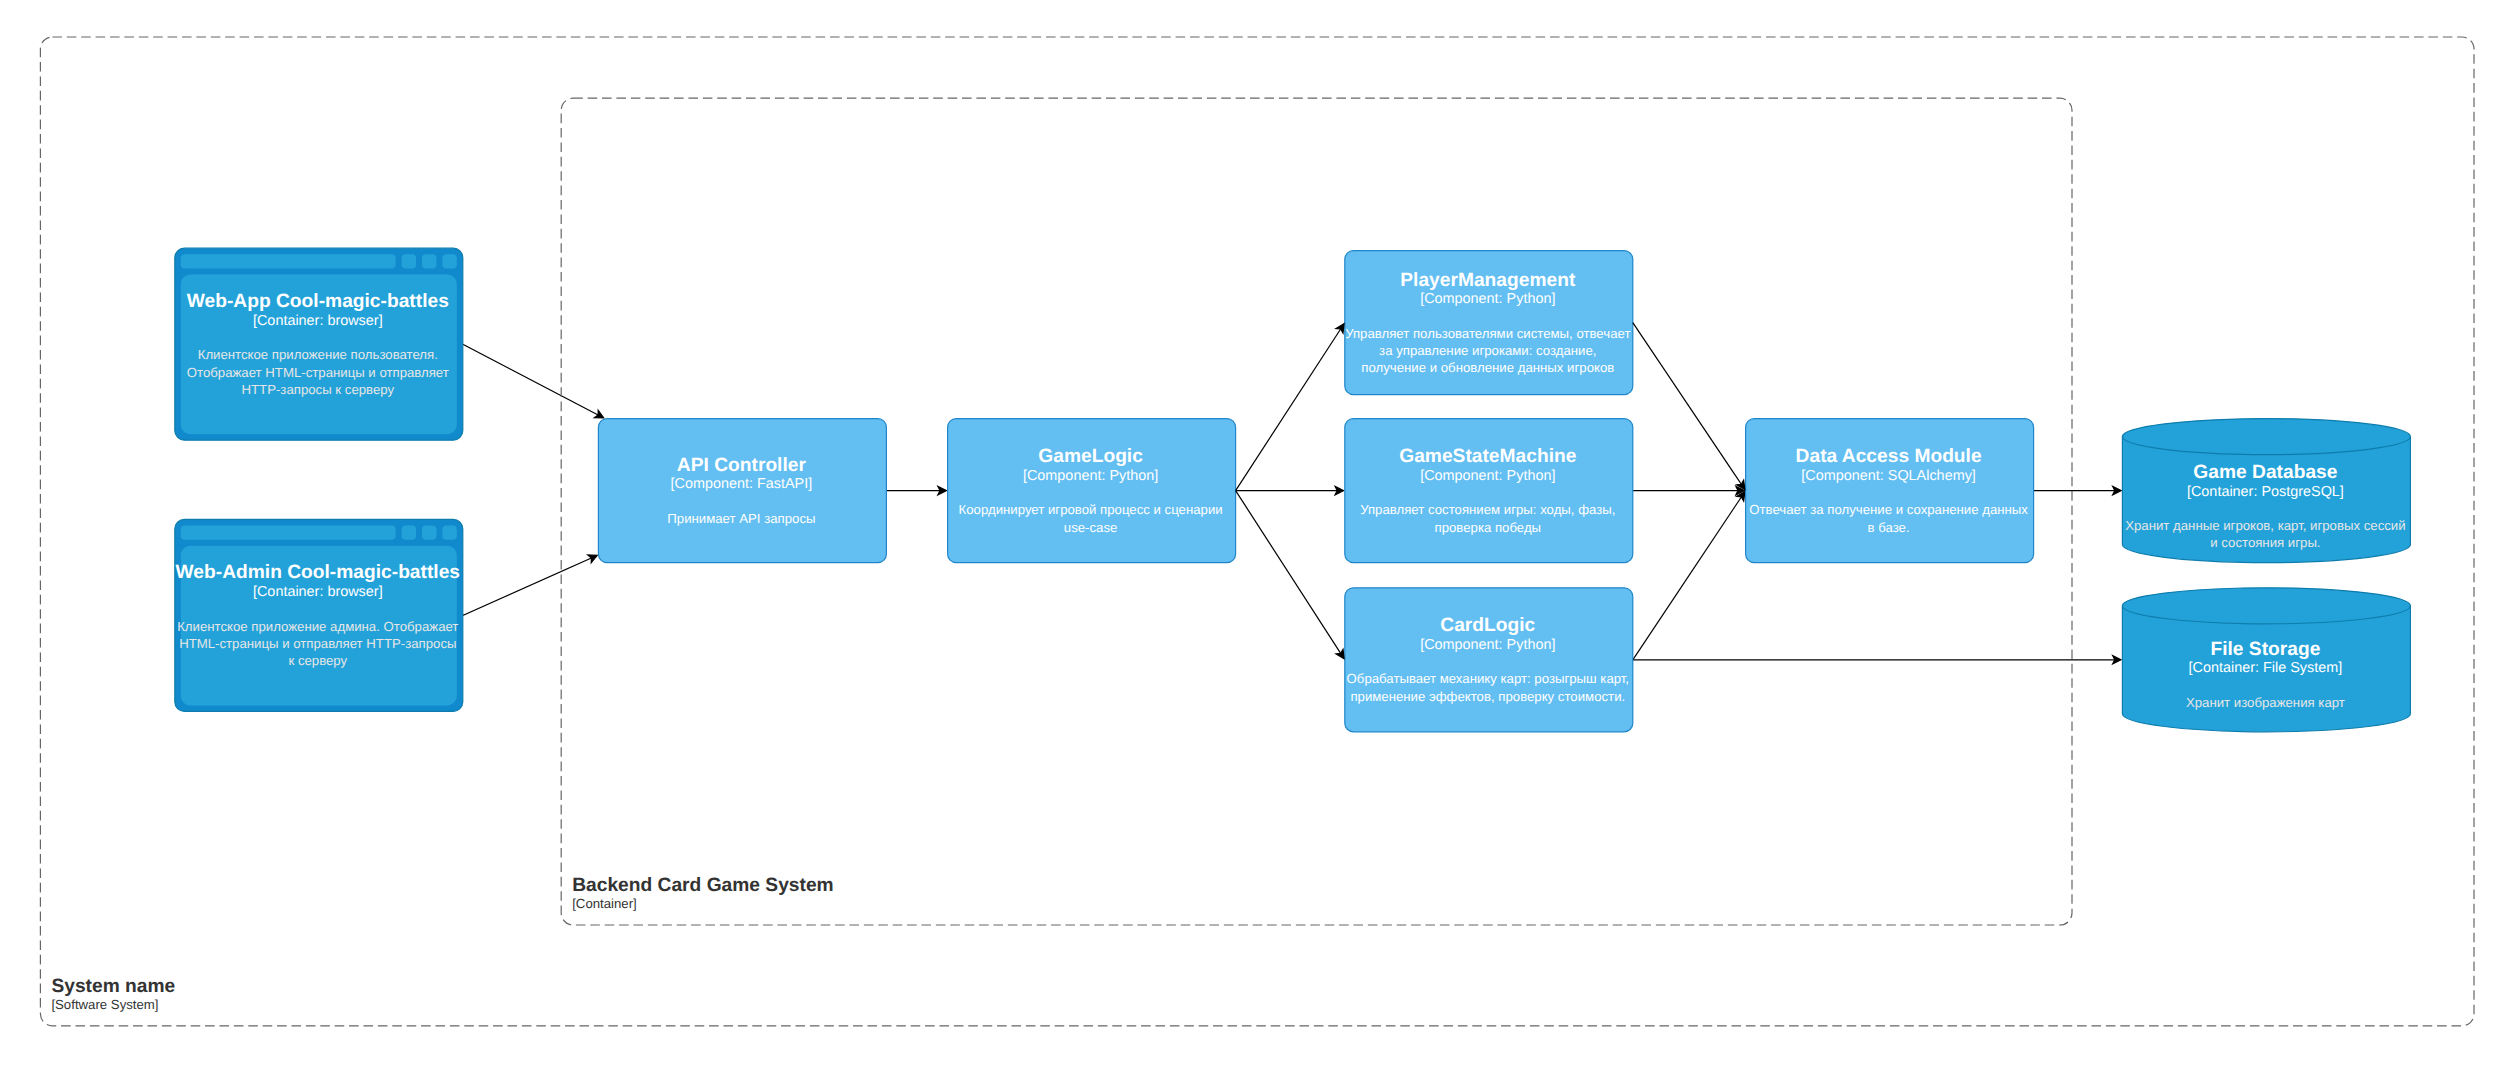
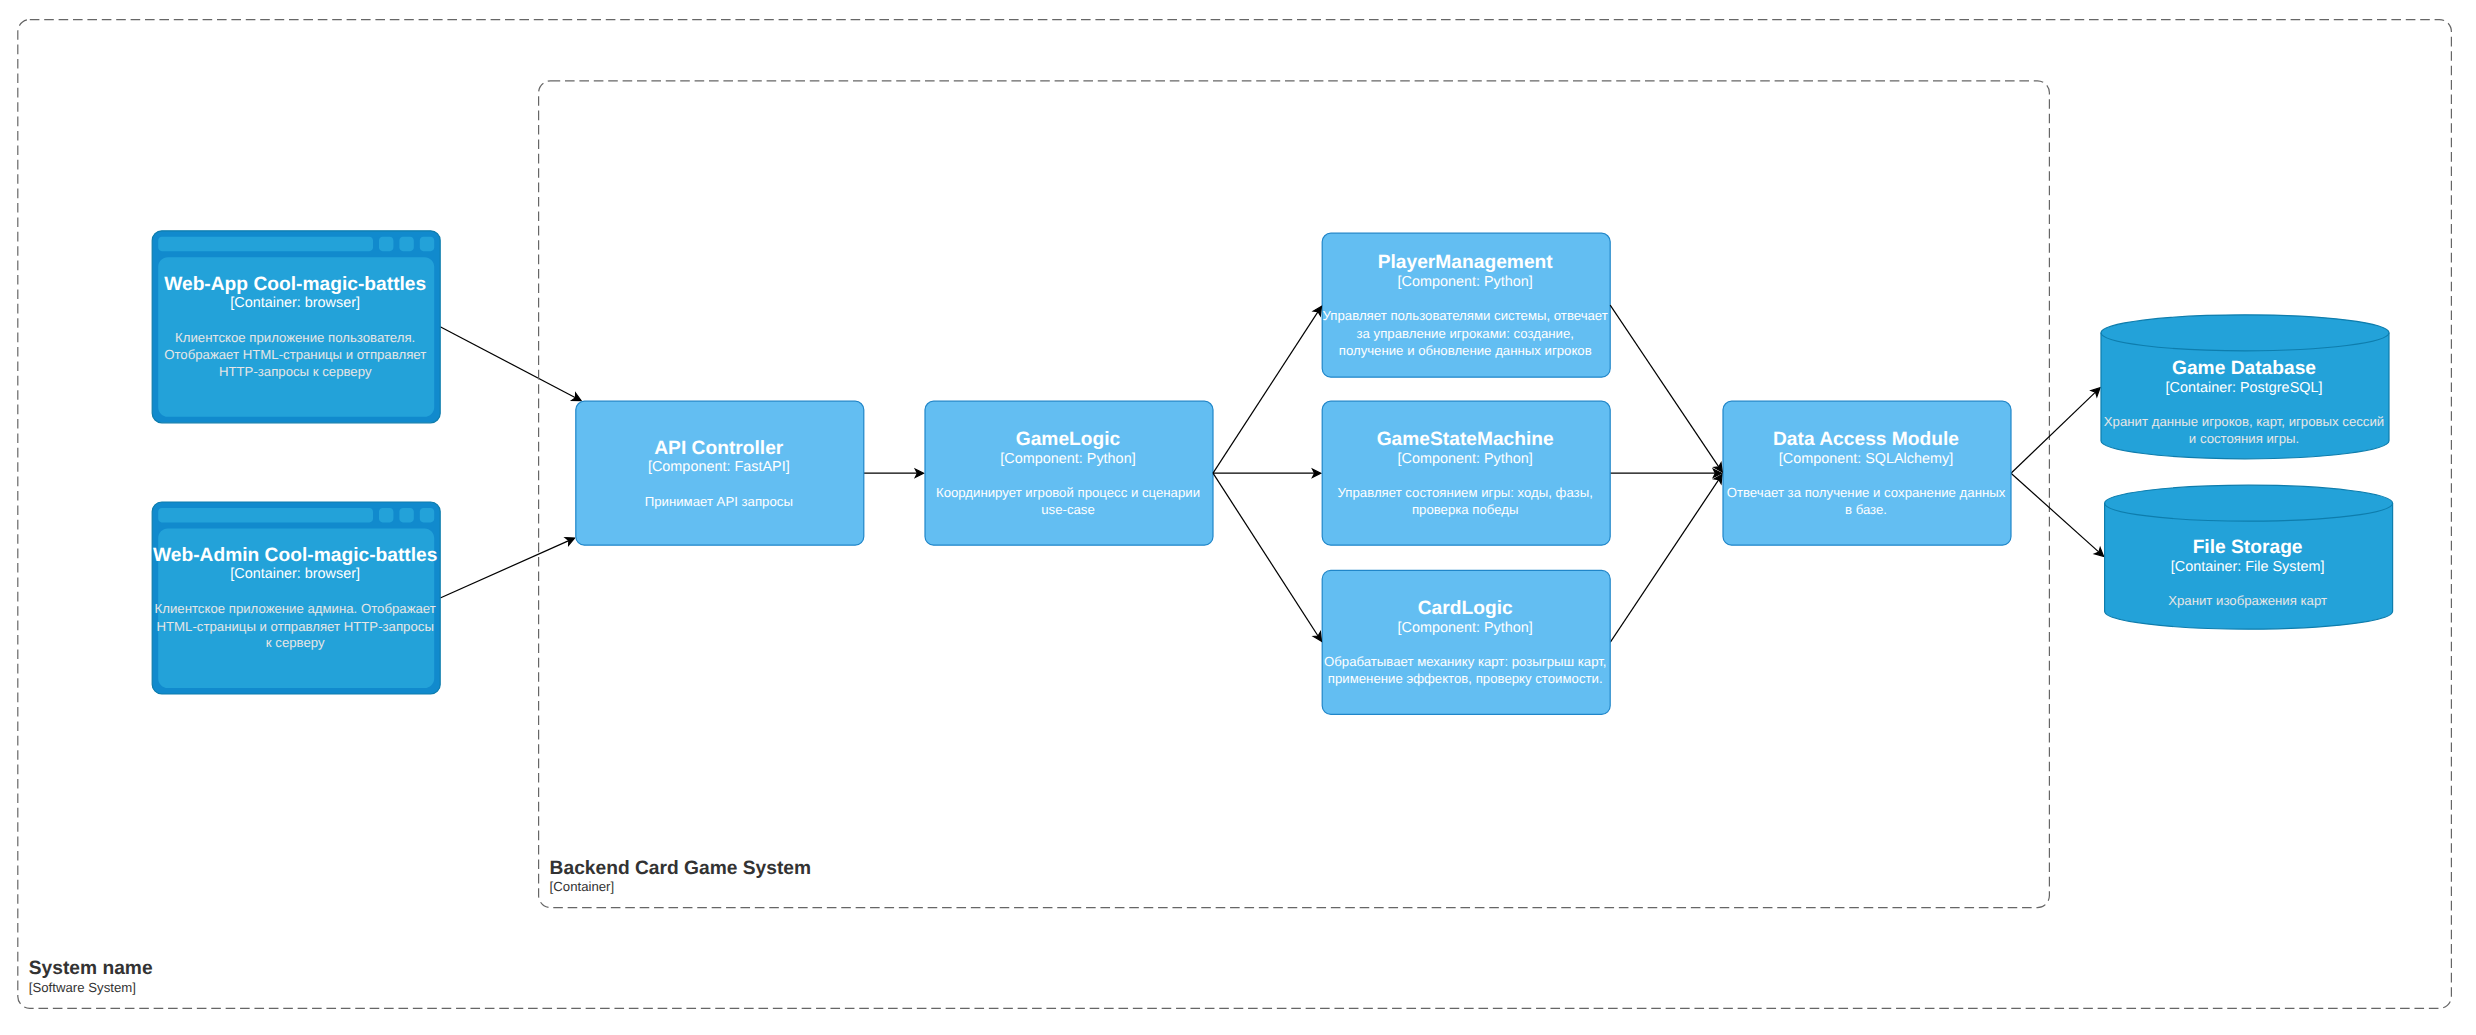
l02:add-db-l2

diff --git a/README.md b/README.md
@@ -72,13 +72,13 @@
     - В случае ничьи по очкам крутости и количеству купленных карт, побеждает игрок с наибольшим количестом карт случайно выбранного типа
     - Если опять ничья, то победитель определяется путем сражения между игроками (например, камнь-ножницы-бумага или дуэль на мечах)
 
-## Примерный КА состояний игры
-![КА состояний игры](img/ka.png)
-> [png](img/ka.png)
-
 ## BPMN (draft)
 ![bpmn](img/bpmn.png)
 > [png](img/bpmn.png)
+
+## Состояния игры
+![КА состояний игры](img/ka.png)
+> [png](img/ka.png)
 
 # Реализация
 **Тип приложения**: MPA  
@@ -96,10 +96,8 @@
 ![L1](img/L1C4.png)
 > [png](img/L1C4.png) / [drawio-C4](docs/C4.drawio)
 
-
 ![L2](img/L2C4.png)
 > [png](img/L2C4.png) / [drawio-C4](docs/C4.drawio)
-
 
 
 ## L3 нотация С4
